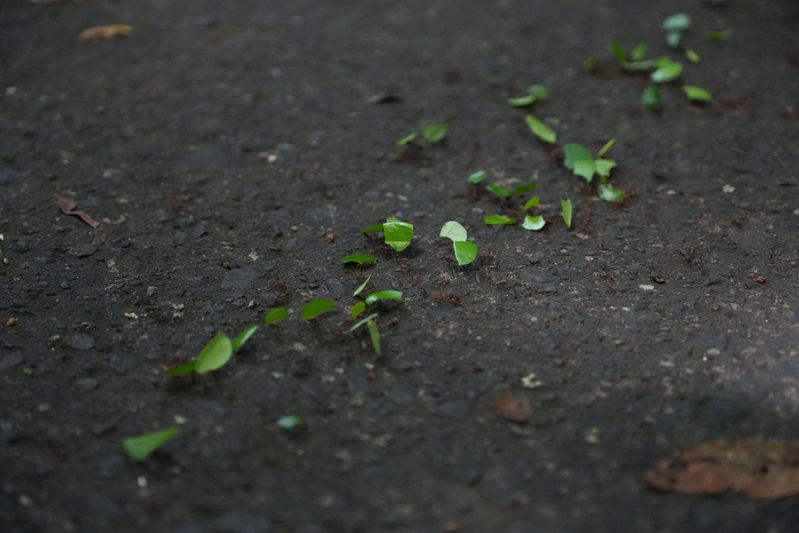
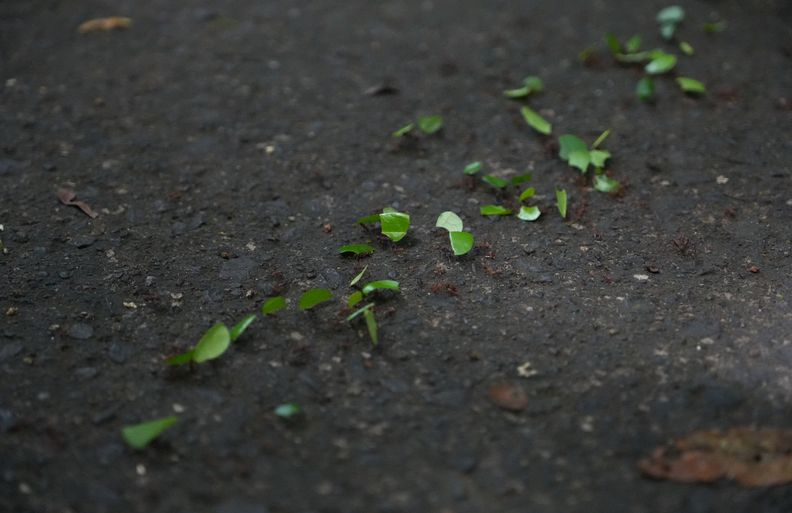
updates phot preprocessing so photos have excatly the size they should have

diff --git a/assets/photo/photo_converter.py b/assets/photo/photo_converter.py
@@ -6,7 +6,7 @@ output_folder = input_folder / "resized"
 
 output_folder.mkdir(exist_ok=True)
 
-MAX_SIZE = (800, 533)
+MAX_SIZE = (792, 513)
 
 for file in input_folder.iterdir():
 
@@ -20,7 +20,7 @@ for file in input_folder.iterdir():
             img = ImageOps.exif_transpose(img)
 
             # Seitenverhältnis beibehalten
-            img.thumbnail(MAX_SIZE, Image.Resampling.LANCZOS)
+            img = ImageOps.fit(img, MAX_SIZE, method=Image.Resampling.LANCZOS)
 
             # JPEG benötigt RGB
             img = img.convert("RGB")
